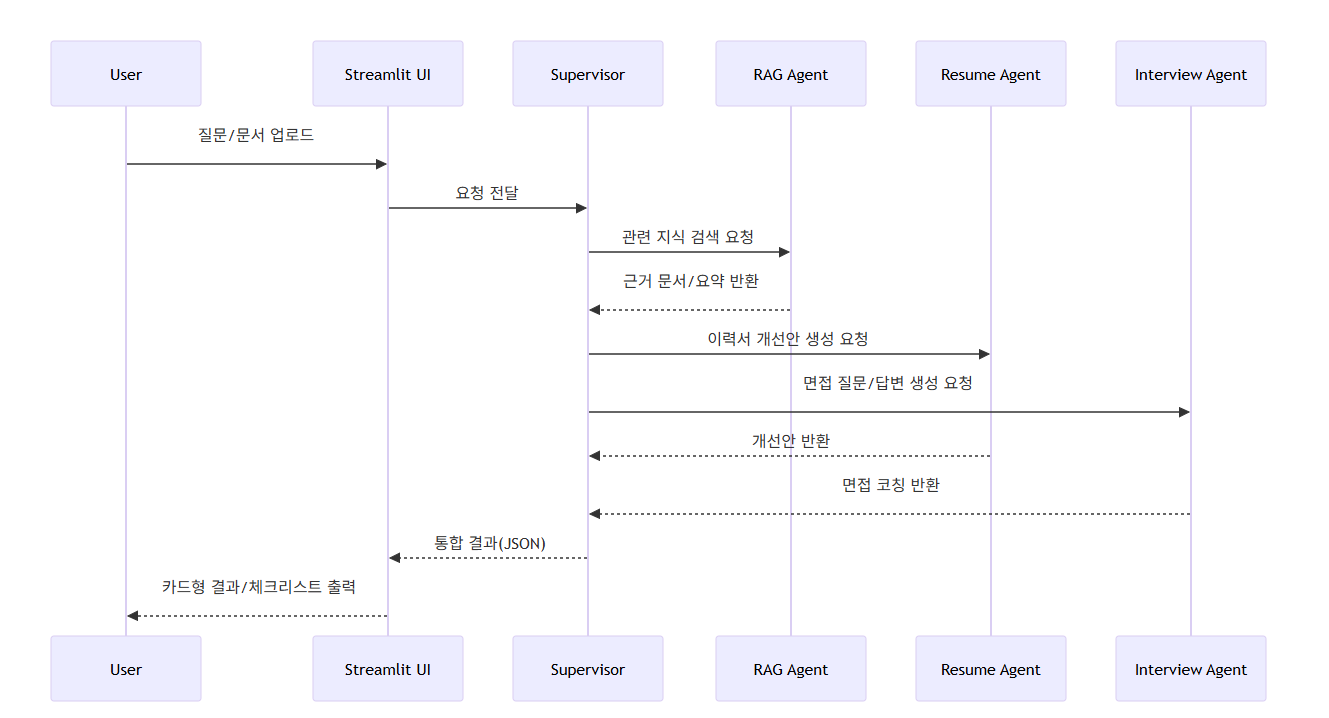
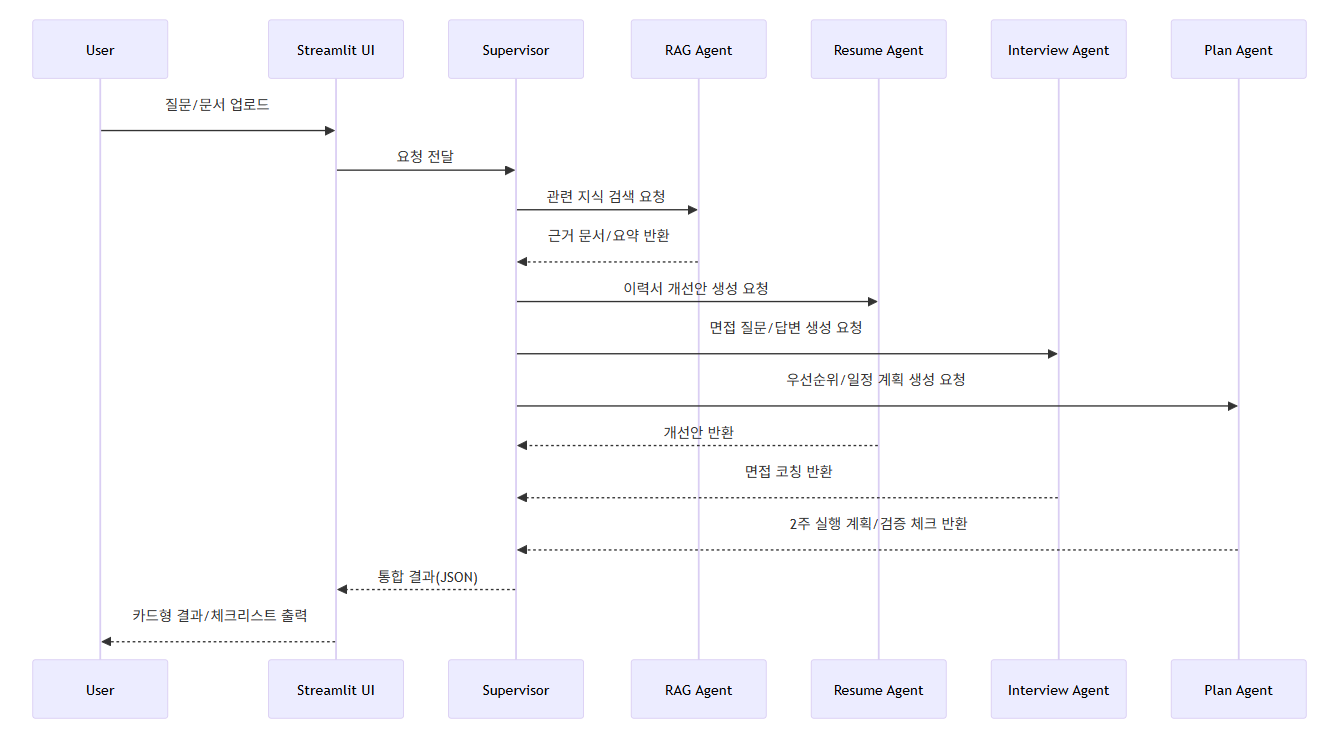
이미지 파일 및 통합 실행 체크리스트 파일 업데이트

diff --git a/docs/evidence/e2e_test_checklist.md b/docs/evidence/e2e_test_checklist.md
@@ -1,15 +1,15 @@
-# E2E Test Checklist (with sample jd_text)
+# E2E 테스트 체크리스트 (샘플 `jd_text` 포함)
 
-Submit-ready checklist for CLI/FastAPI/Streamlit end-to-end verification.
+CLI/FastAPI/Streamlit 통합 검증을 위한 제출용 체크리스트입니다.
 
-## 0) Prerequisites
+## 0) 사전 준비
 
-- [ ] Move to project root: `D:\AI-BootCamp\final-project`
-- [ ] Install dependencies: `pip install -r requirements-final.txt`
-- [ ] Configure `.env` with required AOAI keys
-- [ ] Ensure at least one document exists in `data/knowledge`
+- [ ] 프로젝트 루트로 이동: `D:\AI-BootCamp\final-project`
+- [ ] 의존성 설치: `pip install -r requirements-final.txt`
+- [ ] `.env`에 필수 AOAI 설정값 입력
+- [ ] `data/knowledge`에 최소 1개 이상의 문서가 있는지 확인
 
-Sample `jd_text`:
+샘플 `jd_text`:
 
 ```text
 백엔드 개발자 채용 공고
@@ -20,7 +20,7 @@ Sample `jd_text`:
 - 협업 커뮤니케이션 및 문서화 역량
 ```
 
-Sample `resume_text`:
+샘플 `resume_text`:
 
 ```text
 Python과 FastAPI로 사내 API를 개발/운영했습니다.
@@ -30,35 +30,35 @@ MySQL 사용 경험이 있으며 AWS EC2 배포 경험이 있습니다.
 
 ## 1) CLI E2E
 
-### 1-1. Run with JD + resume
+### 1-1. JD + 이력서 동시 실행
 
-- [ ] Run:
+- [ ] 실행:
 
 ```powershell
 python main.py --session-id "cli-e2e-1" --target-role "백엔드 개발자" --query "공고와 이력서의 갭을 분석하고, 이력서 개선 5개와 2주 계획을 작성해줘." --jd-text "백엔드 개발자 채용 공고 - Python/FastAPI, DB 튜닝, 장애 대응, Docker/AWS, 협업 문서화" --resume-text "FastAPI API 개발 2년, MySQL 사용, AWS 배포 경험"
 ```
 
-- [ ] Validate:
-  - [ ] JSON response returned
-  - [ ] Keys exist: `summary`, `resume_improvements`, `interview_preparation`, `two_week_plan`, `references`
-  - [ ] `references` includes at least 1 item
-  - [ ] `two_week_plan` includes at least 4 items
+- [ ] 검증:
+  - [ ] JSON 응답이 반환된다.
+  - [ ] `summary`, `resume_improvements`, `interview_preparation`, `two_week_plan`, `references` 키가 존재한다.
+  - [ ] `references`가 1개 이상 포함된다.
+  - [ ] `two_week_plan`이 4개 이상 포함된다.
 
-### 1-2. Route tendency check
+### 1-2. 라우팅 성향 확인
 
-- [ ] Run a resume-focused query (exclude interview explicitly)
-- [ ] Confirm response is resume-improvement focused
+- [ ] 이력서 중심 질의(면접 제외 명시)로 실행한다.
+- [ ] 응답이 이력서 개선 중심으로 출력되는지 확인한다.
 
 ## 2) FastAPI E2E
 
-### 2-1. Start server
+### 2-1. 서버 실행
 
-- [ ] Run: `python scripts/run_api.py`
-- [ ] Confirm health endpoint is reachable: `http://127.0.0.1:8000/health`
+- [ ] 실행: `python scripts/run_api.py`
+- [ ] 헬스체크 확인: `http://127.0.0.1:8000/health`
 
-### 2-2. Call `/chat` with `jd_text`
+### 2-2. `jd_text` 포함 `/chat` 호출
 
-- [ ] Run:
+- [ ] 실행:
 
 ```powershell
 $body = @{
@@ -72,60 +72,62 @@ $body = @{
 Invoke-RestMethod -Uri "http://127.0.0.1:8000/chat" -Method Post -ContentType "application/json; charset=utf-8" -Body $body
 ```
 
-- [ ] Validate:
-  - [ ] HTTP 200
-  - [ ] Required fields present
-  - [ ] Korean response
-  - [ ] `references` present
+- [ ] 검증:
+  - [ ] HTTP 200 응답
+  - [ ] 필수 응답 필드 존재
+  - [ ] 한국어 응답
+  - [ ] `references` 포함
 
-### 2-3. Error handling (optional)
+### 2-3. 에러 처리 확인(선택)
 
-- [ ] Confirm 400/500 guidance messages are clear for invalid config/input
+- [ ] 설정/입력 오류 시 400/500 안내 메시지가 명확한지 확인한다.
 
 ## 3) Streamlit E2E
 
-### 3-1. Start UI
+### 3-1. UI 실행
 
-- [ ] Run: `python scripts/run_streamlit.py`
-- [ ] Open: `http://localhost:8501`
+- [ ] 실행: `python scripts/run_streamlit.py`
+- [ ] 접속: `http://localhost:8501`
 
-### 3-2. Input/run scenario with JD
+### 3-2. JD 포함 입력/실행 시나리오
 
-- [ ] Enter query and choose target role
-- [ ] Fill `JD/공고 텍스트(선택)` (or upload JD file)
-- [ ] Fill `이력서 텍스트(선택)` (or upload resume file)
-- [ ] Click `에이전트 실행`
+- [ ] 질문 입력 및 목표 직무 선택
+- [ ] `JD/공고 텍스트(선택)` 입력(또는 JD 파일 업로드)
+- [ ] `이력서 텍스트(선택)` 입력(또는 이력서 파일 업로드)
+- [ ] `에이전트 실행` 클릭
 
-- [ ] Validate:
-  - [ ] Result cards rendered (summary/resume/interview/plan/references)
-  - [ ] Input history stores run
-  - [ ] `다시 불러오기` restores query/role/JD/resume/result
-  - [ ] `새 대화 시작` resets state with new session
-  - [ ] `max_chars` counters work in input boxes
+- [ ] 검증:
+  - [ ] 결과 카드(요약/이력서/면접/계획/출처) 렌더링
+  - [ ] 실행 입력 기록 저장
+  - [ ] `다시 불러오기` 시 질문/직무/JD/이력서/결과 복원
+  - [ ] `새 대화 시작` 시 새 세션으로 초기화
+  - [ ] 입력창 `max_chars` 카운터 정상 동작
+  - [ ] (선택) `인덱스 사전 빌드/로드` 버튼 정상 동작
+  - [ ] (선택) 기록 저장 OFF/PII 마스킹 옵션 동작 확인
 
-### 3-3. Persistence across restart
+### 3-3. 재시작 후 기록 유지 확인
 
-- [ ] Stop Streamlit (`Ctrl+C`) and run again
-- [ ] Confirm sidebar history is still available
+- [ ] Streamlit 종료(`Ctrl+C`) 후 재실행
+- [ ] 사이드바 기록이 유지되는지 확인(기록 저장 옵션 ON 기준)
 
-## 4) Differentiation Metrics Automation
+## 4) 차별성 지표 자동 검증
 
-- [ ] Run:
+- [ ] 실행:
 
 ```powershell
 python scripts/evaluate_differentiation_metrics.py --cases data/eval/sample_queries.json
 ```
 
-- [ ] Validate:
-  - [ ] Routing accuracy printed
-  - [ ] Reference inclusion rate printed
-  - [ ] Plan quality rate printed
-  - [ ] `[PASS] All thresholds satisfied.` printed when thresholds are met
+- [ ] 검증:
+  - [ ] 라우팅 정확도 출력
+  - [ ] 근거 포함률 출력
+  - [ ] 플랜 품질률 출력
+  - [ ] 임계치 충족 시 `[PASS] All thresholds satisfied.` 출력
 
-## 5) Submission Artifacts
+## 5) 제출 산출물 점검
 
-- [ ] `docs/evidence/agent_execution_log.md` updated
-- [ ] `docs/evidence/agent_final_answer.json` updated
-- [ ] Streamlit screenshot prepared: `docs/evidence/streamlit_main_capture.png`
-- [ ] (Optional) Attach metrics run output capture
+- [ ] `docs/evidence/agent_execution_log.md` 최신화
+- [ ] `docs/evidence/agent_final_answer.json` 최신화
+- [ ] Streamlit 캡처 준비: `docs/evidence/streamlit_main_capture.png`
+- [ ] (선택) 지표 자동검증 실행 결과 캡처 첨부
 
